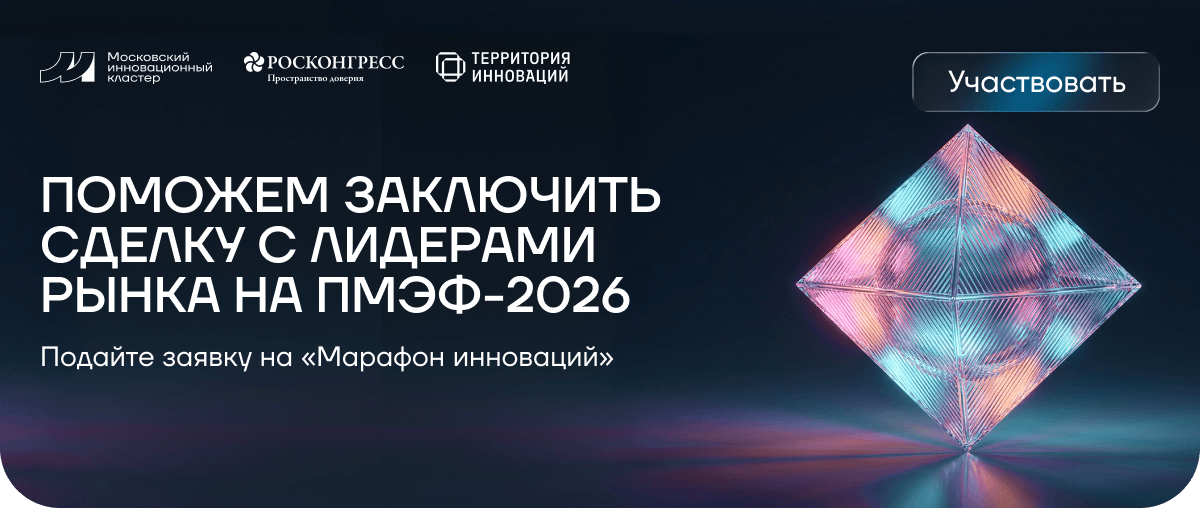
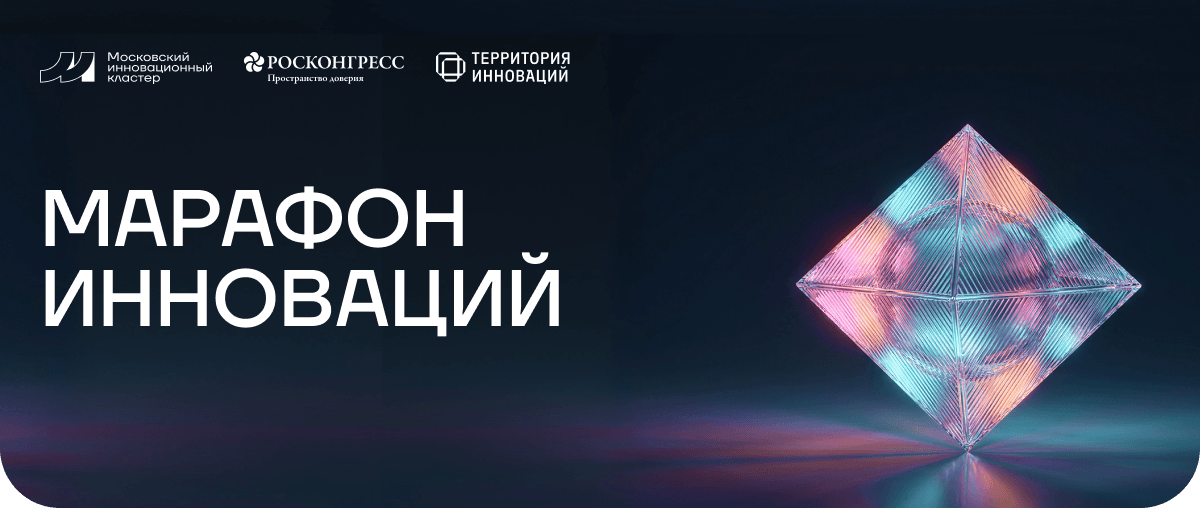
change mik-367

Changed region(s): [[0.0308, 0.3248, 0.555, 0.6496], [0.0308, 0.6791, 0.5242, 0.7382], [0.7708, 0.0886, 0.9558, 0.2362]]

diff --git a/mik-367/Поможем заключить сделку с лидерами рынка на ПМЭФ-2026.html b/mik-367/Поможем заключить сделку с лидерами рынка на ПМЭФ-2026.html
@@ -103,7 +103,7 @@
                                         <tr>
                                             <td style="width:600px;">
                                                 <a href="https://i.moscow/b2b/marathon?utm_source=marketing&utm_medium=email&utm_campaign=digital&utm_content=marathonin&utm_term=15052026" target="_blank">
-                                                    <img alt="Поможем заключить сделку с лидерами рынка на ПМЭФ-2026. Подайте заявку на «Марафон инноваций». Нажмите здесь, чтобы участвовать." height="auto" src="https://cp.unisender.com/ru/user_file?resource=images&user_id=5608985&name=mik-367-hero.png" style="border:0;display:block;outline:none;text-decoration:none;height:auto;width:100%;font-size:13px;" width="600" />
+                                                    <img alt="Марафон инноваций. Нажмите здесь, чтобы участвовать." height="auto" src="https://cp.unisender.com/ru/user_file?resource=images&user_id=5608985&name=mik-367-hero.png" style="border:0;display:block;outline:none;text-decoration:none;height:auto;width:100%;font-size:13px;" width="600" />
                                                 </a>
                                             </td>
                                         </tr>